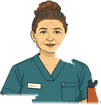
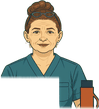
Figuren gegen die neuen Räume eingesetzt: Sonne aus szene.sonne_stellen() und SONNE_AUS, Verdecker je Figur, 16-Bit-Tiefenmasken, README zu beiden Schritten
Claude-Session: https://claude.ai/code/session_017RUnwLemG1jmmnuJCbaBu4

diff --git a/gen/blender/ebenen_figuren.py b/gen/blender/ebenen_figuren.py
@@ -12,7 +12,8 @@ gemeinsame Szene dafür. Orte der Figuren: figuren.PLATZ.
 
 Der Raum wird aus seiner Szenendatei aufgebaut (Aufnahme: exec von szene_aufnahme.py; Monitorzimmer: Import
 von szene_monitor.py, werkzeug-Schnittstelle), die Raumobjekte werden als Holdout gerendert: die Figur hat
-dort Alpha 0, wo Tresen oder Stuhl sie verdecken. Danach: ebenen.py <raum> flat schreibt hitboxes.json neu,
+dort Alpha 0, wo Tresen oder Stuhl sie verdecken. Die Sonne kommt aus `szene.sonne_stellen()`, Objekte in
+`SONNE_AUS` (Leuchtflächen vor dem Fenster) werfen keinen Schatten — wie in ebenen.py. Danach: ebenen.py <raum> flat schreibt hitboxes.json neu,
 also die Figuren immer NACH den Raum-Durchgängen rendern (sie vereinigen ihre Klickzone dort hinein).
 """
 import json
@@ -144,14 +145,19 @@ def pass_linien(pfad, sichtbar, sammlung):
         if o.data.materials and o.data.materials[0].name == "slat": o.hide_render = True   # wie im Raum: Lamellen ohne Kontur
     freestyle(True, sammlung); render(pfad, 4, False)
 
-def pass_sonne(pfad, sichtbar, richtung, energie=14.0):
+def pass_sonne(pfad, sichtbar, richtung=None, energie=14.0, stellen=None):
+    """Sonnen-Durchgang. stellen(sonne): die Sonne der Szene (szene.sonne_stellen) — dann haben Figur und Raum
+    dasselbe Licht; sonst Richtung/Energie von Hand (probe, portraits)."""
     material_grau(); welt((0, 0, 0), 0.0)
     sc = bpy.context.scene; sc.cycles.max_bounces = 0
     sonne = next((o for o in bpy.data.objects if o.type == 'LIGHT' and o.data.type == 'SUN'), None)
     if sonne is None:
         bpy.ops.object.light_add(type='SUN'); sonne = bpy.context.object
-    sonne.data.energy = energie; sonne.data.angle = math.radians(0.6); sonne.data.color = (1, 1, 1)
-    sonne.rotation_euler = Vector(richtung).to_track_quat('-Z', 'Y').to_euler()
+    if stellen is not None: stellen(sonne)
+    else:
+        sonne.data.energy = energie; sonne.data.angle = math.radians(0.6)
+        sonne.rotation_euler = Vector(richtung).to_track_quat('-Z', 'Y').to_euler()
+    sonne.data.color = (1, 1, 1)
     lichter(lambda o: o is sonne)
     for n in ("dawn", "corridor"):
         if n in bpy.data.materials: bpy.data.materials[n].node_tree.nodes["Principled BSDF"].inputs["Emission Strength"].default_value = 0.0
@@ -253,15 +259,16 @@ if MODE == "probe":
     print("saved", OUT + "probe.png")
 
 # ------------------------------------------------------------------ Figurenebene eines Raums
-def figuren_durchgaenge(figs, raum_sichtbar, sonne_sichtbar, sonne_richtung, energie, sonne_name):
+def figuren_durchgaenge(figs, raum_sichtbar, sonne_sichtbar, sonne_stellen, sonne_name):
     """Je Figur drei Durchgänge (Fläche mit Raum als Holdout, Fläche frei, Linie hinter dem Raum) und einmal
-    die Sonne des Raums über allem. raum_sichtbar(o): Raumobjekt wird gerendert (Platzhalter nie)."""
+    die Sonne des Raums über allem. raum_sichtbar(o): Raumobjekt wird gerendert (Platzhalter nie);
+    sonne_sichtbar(o): wirft im Sonnen-Durchgang Schatten (SONNE_AUS der Szene nicht)."""
     koerper = bpy.data.collections["figuren"]
     for name in figs:
         pass_flach(OUT + f"{name}_flat.png", lambda o, n=name: (fig_name(o) == n) if ist_fig(o) else ("holdout" if raum_sichtbar(o) else False))
         pass_flach(OUT + f"{name}_frei.png", lambda o, n=name: (fig_name(o) == n) if ist_fig(o) else False)
         pass_linien(OUT + f"{name}_lines.png", lambda o, n=name: (fig_name(o) == n) if ist_fig(o) else raum_sichtbar(o), koerper)
-    pass_sonne(OUT + sonne_name, lambda o: True if ist_fig(o) else sonne_sichtbar(o), sonne_richtung, energie=energie)
+    pass_sonne(OUT + sonne_name, lambda o: True if ist_fig(o) else sonne_sichtbar(o), stellen=sonne_stellen)
 
 
 def figuren_ebene(raum, figs, cam, sonne_name, klasse, unten=None, einst=None, ziel=None):
@@ -299,7 +306,8 @@ def figuren_ebene(raum, figs, cam, sonne_name, klasse, unten=None, einst=None, z
         vor = Image.open(szene_dir + "hintergrund.png").convert("RGBA"); vor.alpha_composite(Image.open(szene_dir + "mittelgrund.png").convert("RGBA"))
         for name, p in platz.items():
             vor.alpha_composite(Image.open(ziel + f"figuren/{name}.png").convert("RGBA"), (p["x"], p["y"]))
-        vor.save(OUT + f"{raum}_vorschau.png"); print("saved", OUT + f"{raum}_vorschau.png")
+        vp = (ziel + "vorschau.png") if ziel != szene_dir else (OUT + f"{raum}_vorschau.png")
+        vor.save(vp); print("saved", vp)
     except Exception as e:
         print("keine Vorschau:", e)
 
@@ -335,10 +343,11 @@ def aufbau(raum):
         m, k = P["marlene"], P["herrk"]
         figs = {"marlene": figuren.marlene(m["ort"], drehung=m["drehung"], haltung=m["haltung"], tag=tag, fein=0.0055, tresen=m["tresen"]),
                 "herrk": figuren.herr_k(k["ort"], drehung=k["drehung"], haltung=k["haltung"], tag=tag, fein=0.0055, tuete=False)}
-        return dict(cam=sc.camera, figs=figs, raum_sichtbar=lambda o: True, sonne_sichtbar=lambda o: True,
-                    sonne=(-0.30, -0.80, -0.52), energie=14.0,          # wie szene_aufnahme.sonne_stellen
+        aus = set(ns.get("SONNE_AUS", set()))                          # Leuchtflächen draußen schatten nie ab
+        return dict(cam=sc.camera, figs=figs, raum_sichtbar=lambda o: True, sonne_sichtbar=lambda o: o.name not in aus,
+                    sonne_stellen=ns.get("sonne_stellen", lambda s: None),   # dieselbe Sonne wie ebenen.py (sonst die der Szene)
                     klasse={"marlene": "atmet", "herrk": "atmet langsam"}, unten={"marlene": 3},
-                    kontext={"marlene": ["desk", "desk_top", "desk_panel"], "herrk": []},   # Stuhl bleibt Raumobjekt: Kontext zeichnet ihn sonst doppelt
+                    kontext={"marlene": ["desk", "desk_top", "desk_panel", "desk_wange"], "herrk": []},   # Bank bleibt Raumobjekt: Kontext zeichnet sie sonst doppelt
                     verdecker={"marlene": None, "herrk": []})
     if raum == "monitor":
         import importlib
@@ -355,7 +364,7 @@ def aufbau(raum):
         nie = set(wz.PLATZHALTER)
         return dict(cam=sc.camera, figs=figs, raum_sichtbar=lambda o: o.name not in nie,
                     sonne_sichtbar=lambda o: o.name not in nie and o.name not in szene.SONNE_AUS,
-                    sonne=(0.25, -0.75, -0.6), energie=12.0,            # wie in szene_monitor.py
+                    sonne_stellen=getattr(szene, "sonne_stellen", lambda s: None),   # dieselbe Sonne wie ebenen.py (sonst die der Szene)
                     klasse={"falk": "atmet langsam"}, unten={}, kontext={"falk": []}, verdecker={"falk": None})
     raise SystemExit(f"unbekannter Raum {raum}")
 
@@ -366,7 +375,7 @@ def aufbau(raum):
 if MODE in ("raum", "monitor"):
     raum = "aufnahme" if MODE == "raum" else "monitor"
     A = aufbau(raum)
-    figuren_durchgaenge(A["figs"], A["raum_sichtbar"], A["sonne_sichtbar"], A["sonne"], A["energie"], f"{raum}_sun.png")
+    figuren_durchgaenge(A["figs"], A["raum_sichtbar"], A["sonne_sichtbar"], A["sonne_stellen"], f"{raum}_sun.png")
     figuren_ebene(raum, A["figs"], A["cam"], f"{raum}_sun.png", A["klasse"], unten=A["unten"], einst=raum_einstellung(raum),
                   ziel=os.path.join(OUT, "blockout", raum) + os.sep)
 

diff --git a/gen/blender/figuren_zeichnen.py b/gen/blender/figuren_zeichnen.py
@@ -362,7 +362,7 @@ def einsetzen(raum, skala_aus=1):
         pass_tiefe(OUT + f"{name}_tiefe_fig.png", fig_sichtbar(name))
         ef.pass_flach(OUT + f"{name}_frei.png", fig_sichtbar(name))            # Blockout-Alpha: Ausrichtung, Umgriff
         ef.pass_sonne(OUT + f"{name}_sonne.png", lambda o, n=name: (ef.fig_name(o) == n) if ef.ist_fig(o) else A["sonne_sichtbar"](o),
-                      A["sonne"], energie=A["energie"])
+                      stellen=A["sonne_stellen"])
         rahmen_aus()
         # --- Masken
         zr, kr = tiefe_lesen(OUT + f"{name}_tiefe_raum.png"); zf, kf = tiefe_lesen(OUT + f"{name}_tiefe_fig.png")
@@ -371,11 +371,14 @@ def einsetzen(raum, skala_aus=1):
         frei_a = auf_groesse(lade(OUT + f"{name}_frei.png", True), groesse)[..., 3]
         fy = np.nonzero(frei_a.max(1) > 0.5)[0]; fig_h = (fy.max() - fy.min() + 1) if len(fy) else groesse[1]
         umgriff = max(48, int(0.12 * fig_h))               # so weit darf die gezeichnete Figur über den Blockout hinaus (Ärmel, Mantel)
-        zf_voll, _ = naechste_fuellung(zf, kf, umgriff + 2)
+        kf = np.asarray(Image.fromarray(kf.astype(np.uint8) * 255).filter(ImageFilter.MinFilter(5))) > 127   # Kantenpixel (Tiefe mit dem fernen Grund gemischt) nicht ausbreiten
+        zf_voll, _ = naechste_fuellung(zf, kf, umgriff + 4)
         verdeckt = kr & (zr < zf_voll - 0.004)             # Raum liegt vor der Figur (4 mm je 0,001 bei nah..fern = 6 m)
         sichtbar = 1 - dilatiere(verdeckt.astype(np.float32), 0)
         frei_a = auf_groesse(lade(OUT + f"{name}_frei.png", True), groesse)[..., 3]
         zone = dilatiere(frei_a, umgriff)                  # Figur ± Umgriff: nichts, was Kontext dazuerfand (Stuhl, Schatten)
+        if os.environ.get("FIGUREN_DEBUG"):
+            bild(np.stack([verdeckt, zone, kf], -1).astype(np.float32), "RGB").save(OUT + f"{name}_debug_masken.png")
         # --- Quellbild: auf Vorlagengröße, am Blockout ausrichten (Kopf oben, Fußlinie)
         q = vormultipliziert_skalieren(lade(QUELLE + f"{name}.png", True), groesse)
         q = ausrichten(q, frei_a, voll=not meta.get("verdeckt"))

diff --git a/gen/blender/figuren.py b/gen/blender/figuren.py
@@ -35,7 +35,7 @@ FARBEN = {
 # Haltung. ebenen_figuren.aufbau() und figuren_zeichnen.py lesen hier. Falk: ort=None heißt „am Platzhalter
 # platz_falk der Szene“ (szene_monitor.py); ein Tupel überschreibt ihn.
 PLATZ = {
-    "marlene": dict(ort=(-3.05, -0.5, 0.0), drehung=20, haltung="tresen", tresen=1.1),   # hinter dem Tresen (Rückkante y=-0,83)
+    "marlene": dict(ort=(-3.05, -0.5, 0.0), drehung=20, haltung="tresen", tresen=1.09),  # hinter dem Tresen (Oberkante der Ablage 1,09 m)
     "herrk": dict(ort=(2.4, -0.75, 0.0), drehung=-8, haltung="sitzen"),                  # dritter Stuhl der Wartereihe
     "falk": dict(ort=None, drehung=-14, haltung="taschen"),                              # rechts vom großen Schirm
 }

diff --git a/gen/blender/README.md b/gen/blender/README.md
@@ -32,28 +32,64 @@ Einzelne Durchgänge: `python3 gen/blender/ebenen.py aufnahme lines` usw. (Liste
   Je Raum einstellbar (`EINSTELLUNG`): Lichtfarbe, Weichheit, AO-Schwelle, Kontaktschatten an/aus.
 * `malen.py` — optionaler Feinschliff über fal.ai (Flux Kontext), Schlüssel aus `FAL_KEY`.
 * `figuren.py` — Marlene, Herr K. und Dr. Falk als Grundkörper (Art Bible §5), mit Haltungen und Kopf-Leerobjekt.
-* `ebenen_figuren.py` — Figuren durch dieselben Durchgänge (Fläche, Linie, Sonne), Raumobjekte als Holdout:
-  `raum` schreibt `art/szenen/aufnahme/figuren/{marlene,herrk}.png`, `monitor` schreibt
-  `art/szenen/monitor/figuren/falk.png`, jeweils mit `figuren.json` (Bühnenposition, Atem-Klasse), und
-  vereinigt die Klickzone der Figur in `hitboxes.json`; `portraits` schreibt `art/portraits/*.png` (400×440);
-  `probe` stellt alle drei auf eine neutrale Bühne (`bau/blender/figuren/probe.png`, Silhouettentest).
-  Licht und Sonnenschwelle kommen aus `komposit.EINSTELLUNG` des Raums.
+  `PLATZ` ist die EINE Stelle je Figur für Ort (Meter, Weltkoordinaten der Szene), Drehung und Haltung;
+  Falk mit `ort=None` steht am Platzhalter `platz_falk` der Szene.
+* `ebenen_figuren.py` — Blockout-Figuren durch dieselben Durchgänge (Fläche, Linie, Sonne), Raumobjekte als
+  Holdout. `aufbau(raum)` baut Raum + Figuren (gemeinsam mit `figuren_zeichnen.py`); die Sonne kommt aus
+  `szene.sonne_stellen()`, `SONNE_AUS` wirft keinen Schatten. `raum`/`monitor` schreiben nur noch eine Vorschau
+  nach `bau/blender/figuren/blockout/<raum>/` (Haltung und Platz prüfen), `portraits` die Brustbild-Blockouts nach
+  `bau/blender/figuren/portrait_<wer>_blockout.png`, `probe` alle drei auf eine neutrale Bühne (Silhouettentest).
+* `figuren_zeichnen.py` — die Figuren im Spiel: Blockout → Flux Kontext → einsetzen (unten).
 
-Figuren immer NACH den Raum-Durchgängen rendern (`ebenen.py <raum> flat` schreibt `hitboxes.json` neu):
+## Figuren im Raum: zwei Schritte
+
+Die Figuren in `art/szenen/<raum>/figuren/` sind ligne-claire-Zeichnungen, die Flux Kontext aus dem Blockout
+ausmalt. Der teure Schritt läuft einmal, sein geprüftes Ergebnis liegt im Repository (`art/figuren_quelle/`:
+PNG in voller Auflösung mit Alpha + JSON mit Ausschnitt, Seed, Endpunkt, Prompt). Der billige Schritt setzt die
+Figur in den Raum und läuft nach jeder Raumänderung erneut — ohne fal, nur Masken aus Blender (Sekunden).
+
+**(a) Zeichnen** — nur, wenn eine Figur neu entstehen soll (Kosten ≈ 0,04–0,08 $ je Aufruf):
 
 ```bash
-python3 gen/blender/ebenen_figuren.py raum && python3 gen/blender/ebenen_figuren.py monitor
-python3 gen/blender/ebenen_figuren.py portraits
+python3 gen/blender/figuren_zeichnen.py vorlage aufnahme          # Blockout-Ausschnitte (4× Bühnenmaßstab, grüner Grund)
+python3 gen/blender/figuren_zeichnen.py malen marlene --seed 7 --portrait   # Kontext (max/multi, Porträt = dieselbe Person)
+python3 gen/blender/figuren_zeichnen.py malen herrk --seed 23               # Kontext (pro), Stilphrase stil/figur_herr_k.txt
+python3 gen/blender/figuren_zeichnen.py malen falk --seed 8 --bearbeiten --quelle bau/blender/figuren/ki_falk_s7p.png \
+        --stil gen/blender/stil/figur_falk_zirkel.txt                       # ein Requisit nachbessern (Zirkel)
+python3 gen/blender/figuren_zeichnen.py malen herrk --seed 23 --aus bau/blender/figuren/ki_herrk_s23.png --uebernehmen
 ```
+
+`malen` legt `bau/blender/figuren/ki_<name>_s<seed>[p|e].png` ab, dazu `_frei.png` (Farbschlüssel auf dem grünen
+Grund) und `_pruef.png` (Vorlage | Kontext | freigestellt). Erst prüfen (Art Bible §5/§6: Requisiten, Finger,
+keine Schrift, ein Schlauch), dann mit `--aus … --uebernehmen` nach `art/figuren_quelle/<name>.png` übernehmen.
+Stilphrasen: `stil/figur_rahmen.txt` (Rahmen: Stil, Pose halten, grüner Grund, nichts dazuerfinden) +
+`stil/figur_<name>.txt` (die Person). Das Quellbild ist im eigenen, neutralen Licht — Raumlicht kommt in (b).
+
+**(b) Einsetzen** — nach jedem Raum-Render, immer NACH `ebenen.py <raum> flat` (das schreibt `hitboxes.json` neu):
+
+```bash
+BLENDER_THREADS=2 python3 gen/blender/figuren_zeichnen.py einsetzen aufnahme
+BLENDER_THREADS=2 python3 gen/blender/figuren_zeichnen.py einsetzen monitor
+python3 gen/kunst.py && python3 tools/baue.py
+```
+
+Je Figur rendert das drei billige Durchgänge im Ausschnitt (Tiefe des Raums, Tiefe des Blockouts, Sonne) und
+rechnet daraus: Verdeckung (Raum vor der Figur: Tresen, PC, Becher vor Marlene; für Herrn K keine, er sitzt IN
+der Bank — `verdecker` in `aufbau()`), Ausrichtung am Blockout (Kopfoberkante, Fußlinie), Umgriff (nichts, was
+Kontext um die Figur herum dazuerfand), Sonnenfleck und Lichtfarbe aus `komposit.EINSTELLUNG` des Raums, dann
+Bühnengröße (`--skala 2` für doppelte Auflösung), 160 Farben mit eigenem Alpha, `figuren.json` (Position, Atem-
+Klasse) und die Klickzone der Figur in `hitboxes.json` (vereinigt mit der bestehenden Zone, mindestens 44 CSS-px).
+Vorschau: `bau/blender/figuren/<raum>_vorschau.png`; `FIGUREN_DEBUG=1` schreibt die Masken daneben.
+
+Bewegt sich eine Figur (neuer Stuhl, anderer Platz): `figuren.PLATZ` ändern, (b) erneut ausführen. Ändert sich
+die Pose, braucht es (a) neu. Der Ausschnitt in `art/figuren_quelle/<name>.json` stammt aus `vorlage` und bleibt
+gültig, solange die Figur am Platz bleibt.
 
 Die Uhrzeiger setzt `gen/kunst.py` aus der Klickzone `uhr` als SVG über das Hintergrundbild (gleiche Ebene
 wie das Zifferblatt, sonst wandern sie in der Parallaxe); das Spiel dreht sie nach der Spielzeit.
 `kunst.py` bettet `hitboxes.json` (→ `kunst.szenen.<raum>.zonen`, daraus baut `spiel.js` die Klickfelder) und
 `schirme.json` (→ `.schirme`, Leinwände mit laufenden Kurven in der Ebene des Schirms) mit ein — Zahlen werden
 nirgends abgeschrieben.
-
-Draußen vor den Fenstern (Himmel, Nachbarflügel, Bäume) liegt niedrig genug, dass es nie im Weg der Sonne steht:
-`ebenen_figuren.py raum` lässt alle Raumobjekte die Sonne der Figuren abschatten, unabhängig von `SONNE_AUS`.
 
 Regeln, die aus Fehlern stammen:
 * Raum nicht aus sich durchdringenden Kisten bauen — die Fugen bekommen sonst keine oder flackernde Linien.
@@ -66,15 +102,20 @@ Zwischenergebnisse liegen in `bau/blender/<raum>/` (nicht im Repository), Ergebn
 
 ## Porträts: Feinschliff über fal.ai (Flux Kontext)
 
-Die Brustbilder in `art/portraits/` entstehen aus dem 3D-Blockout (`ebenen_figuren.py portraits`) und einem
-Kontext-Durchlauf mit den Stilphrasen in `stil/` (weiche Variante, Seed 11), danach auf 400×440 gebracht und
-auf 160 Farben quantisiert (RGB, Alpha getrennt). Schlüssel kommt aus `FAL_KEY` oder dem Proxy der Cloud-Umgebung:
+Die Brustbilder in `art/portraits/` entstehen aus dem 3D-Blockout (`ebenen_figuren.py portraits` →
+`bau/blender/figuren/portrait_<wer>_blockout.png`) und einem Kontext-Durchlauf mit der Stilphrase
+`stil/portrait_<wer>.txt`, danach 400×440 und 160 Farben. Ein fertiges Porträt lässt sich auch gezielt umzeichnen
+(`--bearbeiten`, Gesicht bleibt) — so bekam Marlene den Dutt (`stil/portrait_marlene_dutt.txt`) und den Kuli
+hinterm Ohr (`stil/portrait_marlene_kuli.txt`). Schlüssel aus `FAL_KEY` oder dem Proxy der Cloud-Umgebung:
 
 ```bash
-python3 gen/blender/malen.py kontext --image art/portraits/marlene.png --style gen/blender/stil/portrait_marlene.txt \
-        --seed 11 --size portrait_4_3 --out bau/blender/figuren/marlene_weich.png
+python3 gen/blender/figuren_zeichnen.py portrait marlene --seed 3                       # aus dem Blockout
+python3 gen/blender/figuren_zeichnen.py portrait marlene --seed 5 --bearbeiten --stil gen/blender/stil/portrait_marlene_kuli.txt
+python3 gen/blender/figuren_zeichnen.py portrait marlene --seed 5 --bearbeiten --aus bau/blender/figuren/portrait_marlene_s5.png --uebernehmen
 ```
 
 Vor dem Übernehmen gegen docs/ART_BIBLE.md §5 prüfen (Dutt mit Lesebrille, Kuli, Thermoskanne; Schiebermütze,
-Hörgerät; Brille an der Kette, Zirkel, Stethoskop) — Kontext lässt gern ein Detail weg, dann neuer Seed.
-`stil/szene_ligne_claire.txt` ist die Phrase für ganze Räume (nur als Vergleich; Räume bleiben reine Blender-Ausgabe).
+Hörgerät; Brille an der Kette, Zirkel, Stethoskop) — Kontext lässt gern ein Detail weg, dann neuer Seed oder
+eine Bearbeitung mit einer einzigen Änderung (mehrere auf einmal gehen oft schief). Die Ganzkörperfigur danach
+mit `malen --portrait` gegen das neue Porträt zeichnen, damit beide dieselbe Person zeigen.
+`malen.py kontext` bleibt für Räume (nur als Vergleich; Räume bleiben reine Blender-Ausgabe).
